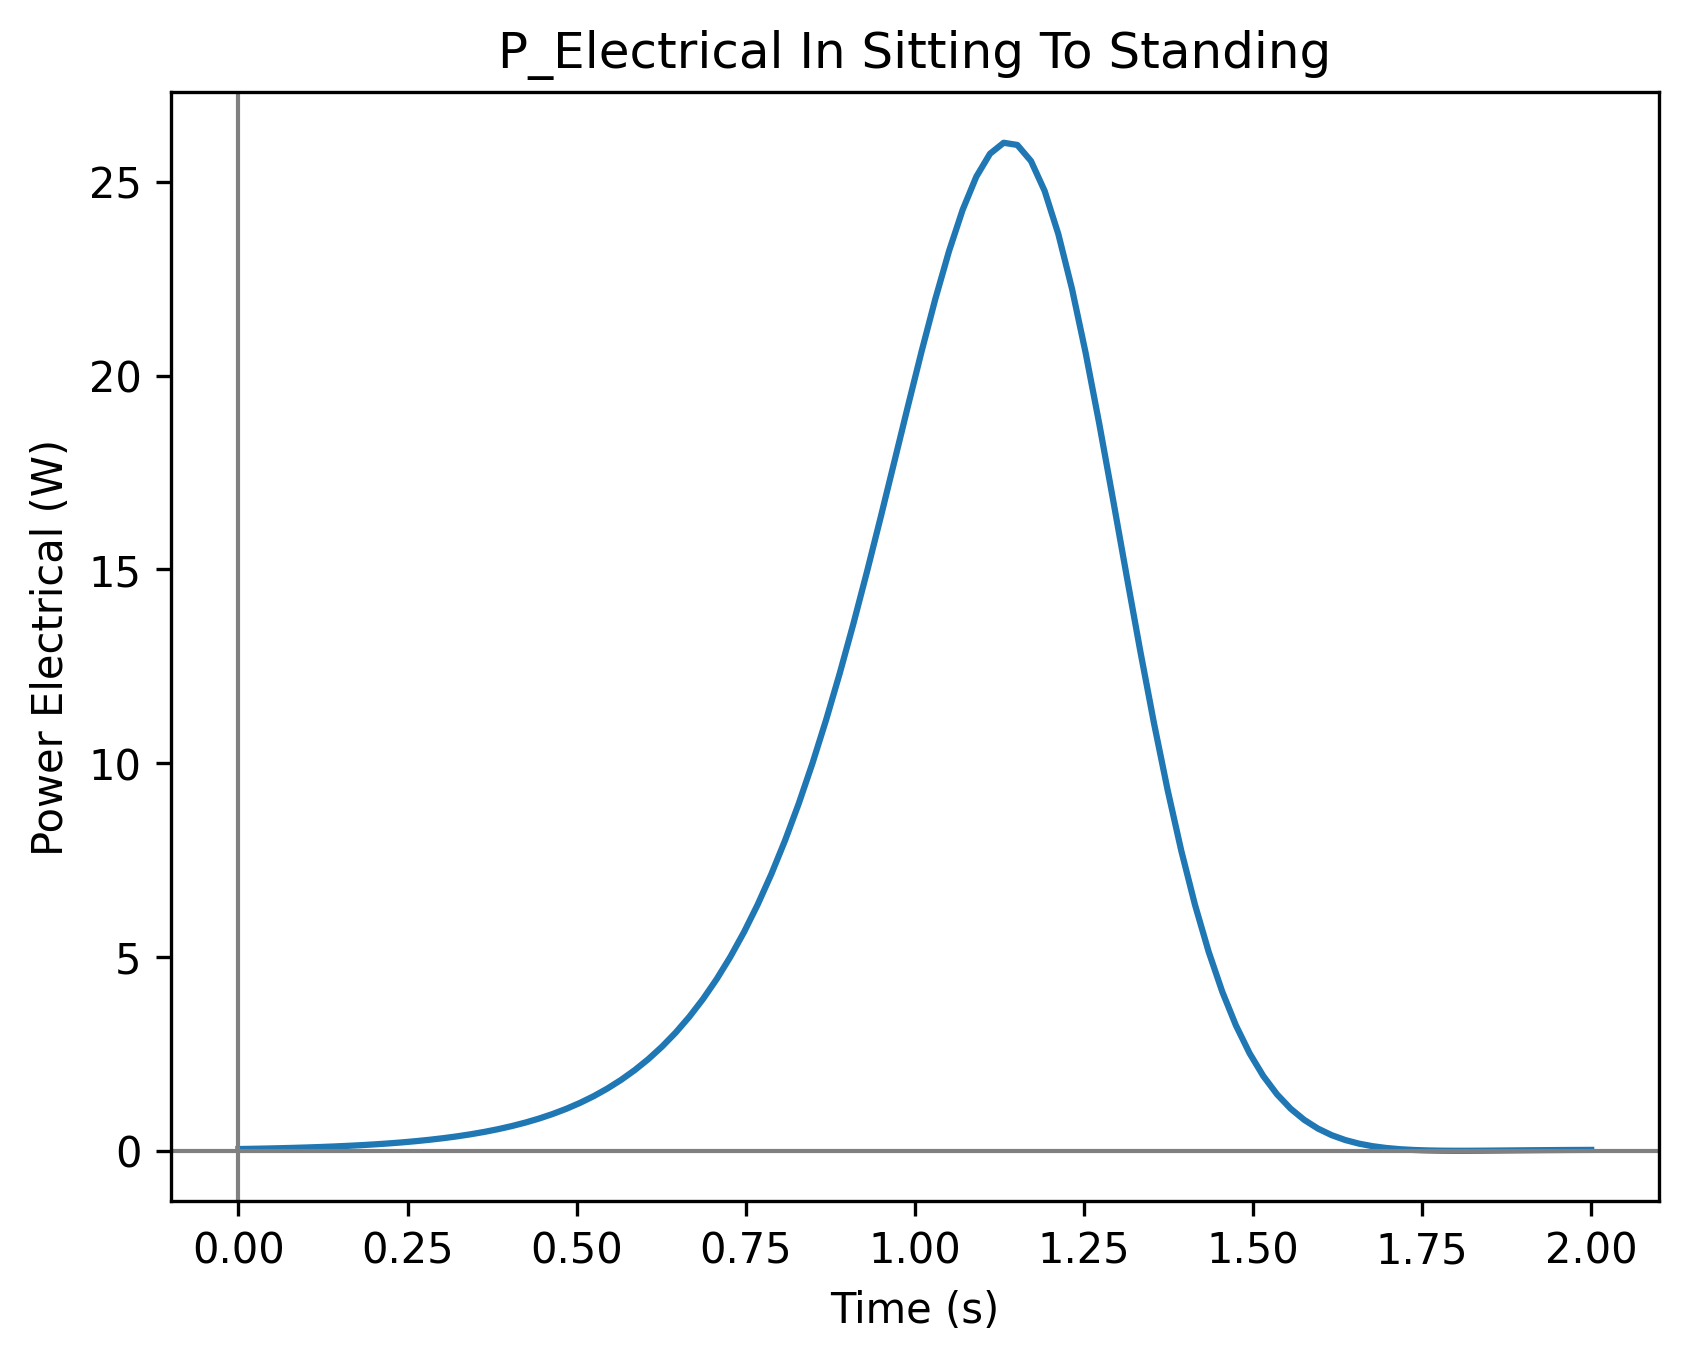
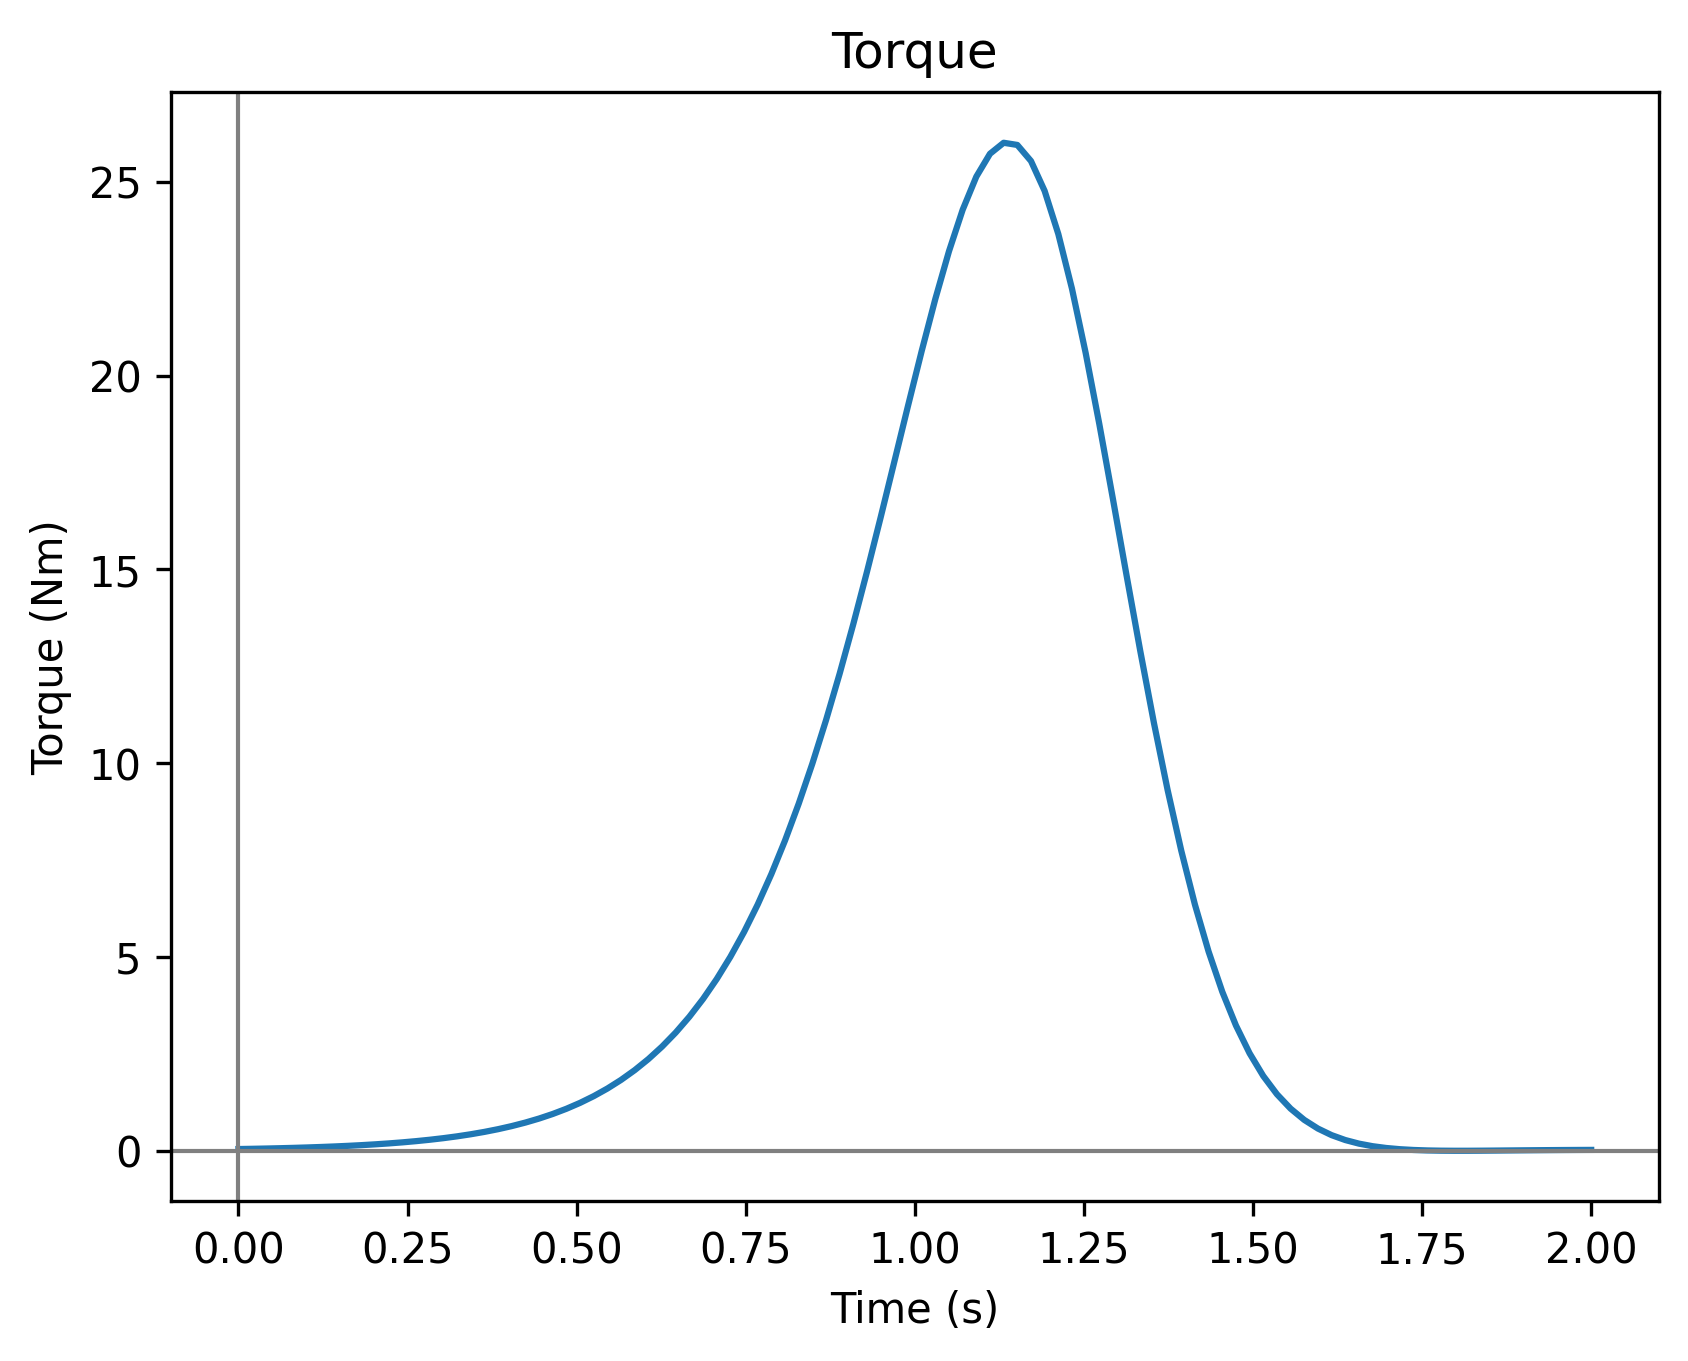
new torque and angles added

Changed region(s): [[0.3081, 0.0, 0.8009, 0.0617], [0.0, 0.3395, 0.0616, 0.6172]]

diff --git a/Model_1/main.py b/Model_1/main.py
@@ -4,8 +4,9 @@ import matplotlib.pyplot as plt
 import csv
 import math
 import numpy as np
+from scipy.interpolate import  CubicSpline
 
-
+cs = CubicSpline
 
 #Define some global constants
 
@@ -42,10 +43,59 @@ max_torque = None
 theta2_t = []
 theta2_y = []
 
+t_y = []
+t_x = []
+a_y = []
+a_x = []
+
 #for scaling s curve to ~2 seconds
 time_scale = 3.0/2.0
 #functions
 
+#****************new****************#
+def get_torque_data():
+    global max_torque
+    t_x.clear()
+    t_y.clear()
+    with open('better_torque.csv', 'r', newline='') as power_file:
+        file_reader = csv.reader(power_file)
+        header = next(file_reader)
+        time_col_idx = 0
+        tor_col_idx = 1
+        for row in file_reader:
+            if len(row) > tor_col_idx:
+                t_x.append(float(row[time_col_idx]))
+                t_y.append(float(row[tor_col_idx]))
+    return
+def get_angle_data():
+    global max_torque
+    a_x.clear()
+    a_y.clear()
+    with open('better_angle.csv', 'r', newline='') as power_file:
+        file_reader = csv.reader(power_file)
+        header = next(file_reader)
+        time_col_idx = 0
+        ang_col_idx = 1
+        for row in file_reader:
+            if len(row) > ang_col_idx:
+                t_x.append(float(row[time_col_idx]))
+                t_y.append(float(row[ang_col_idx]))
+    return
+get_angle_data()
+get_torque_data()
+
+def torque_plot():
+    plt.figure(6)
+    plt.plot(t_x, t_y)
+    plt.axhline(y=0, color='gray', linestyle='-', linewidth=1)
+    plt.axvline(x=0, color='gray', linestyle='-', linewidth=1)
+    plt.xlabel('Time (s)')
+    plt.ylabel('Torque (Nm)')
+    plt.title('Torque')
+    plt.savefig("torque_test.png", dpi=300, bbox_inches="tight")
+    return
+
+#****************new****************#
 #****************sit to stand stuff****************#
 def angular_velocity_sts(x):
     #d_to_r = math.pi/180.0
@@ -122,63 +172,7 @@ def sts_cycle():
         x_power_elec.append(i)
 
 #****************s curve test****************#
-def plot_s_curve():
-    # --- your original S-curve parameters ---
-    A = 141.33     # vertical shift
-    B = 39.77      # amplitude
-    C = 1.85       # horizontal shift
-    D = 0.37       # slope width
 
-    def angle_sts(t):
-        """Original sit-to-stand S-curve for joint angle (degrees)."""
-        return A + B * np.tanh((t - C) / D)
-
-    # sample time from 0 to 2 seconds
-    t_vals = np.linspace(0.0, 2.0, 400)
-    angle_vals = [angle_sts(t) for t in t_vals]
-
-    # plot
-    plt.figure(figsize=(8,4))
-    plt.plot(t_vals, angle_vals, color="blue")
-    plt.axhline(0, color="gray", linewidth=1)
-    plt.axvline(0, color="gray", linewidth=1)
-    plt.xlabel("Time (s)")
-    plt.ylabel("Angle (degrees)")
-    plt.title("Original S-Curve Angle (0–2 seconds)")
-    plt.grid(True)
-
-    # save instead of showing
-    plt.savefig("s_plot.png", dpi=300, bbox_inches="tight")
-    plt.close()
-
-
-def plot_s_curve_fast():
-    # original parameters
-    A = 141.33
-    B = 39.77
-    C = 1.85
-    D = 0.37
-
-    TIME_SCALE = 3.0 / 2.0  # squeeze 3s movement into 2s
-
-    def angle_sts_old(t):
-        return A + B * np.tanh((t - C) / D)
-
-    def angle_sts_fast(t):
-        t_old = TIME_SCALE * t
-        return angle_sts_old(t_old)
-
-    t_vals = np.linspace(0.0, 2.0, 400)
-    angle_vals = [angle_sts_fast(t) for t in t_vals]
-
-    plt.figure(figsize=(8, 4))
-    plt.plot(t_vals, angle_vals, color="red")
-    plt.xlabel("Time (s)")
-    plt.ylabel("Angle (degrees)")
-    plt.title("Time-Compressed S-Curve Angle (0–2 seconds)")
-    plt.grid(True)
-    plt.savefig("s_plot_fast.png", dpi=300, bbox_inches="tight")
-    plt.close()
 #****************s curve test****************#
 
 def sit_to_stand_plots():
@@ -382,10 +376,11 @@ average_power_gait()
 braking_torque()
 #cum_avg_plot()
 battery_life_estimate()
-sit_to_stand_plots()
-test_plot()
-plot_s_curve()
-plot_s_curve_fast()
+#sit_to_stand_plots()
+#test_plot()
+#plot_s_curve()
+#plot_s_curve_fast()
+torque_plot()
 
 
 
